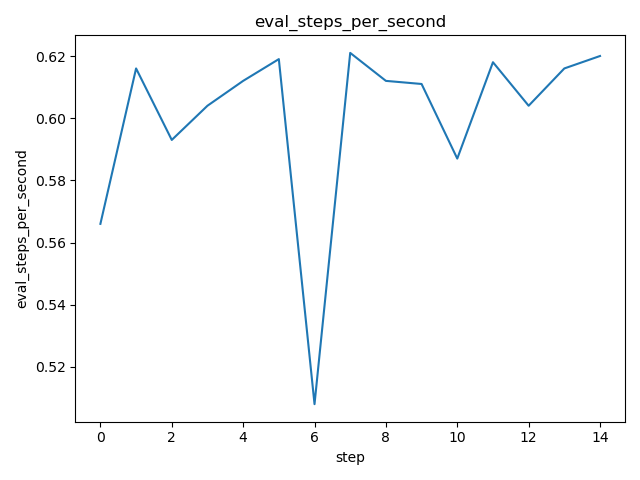
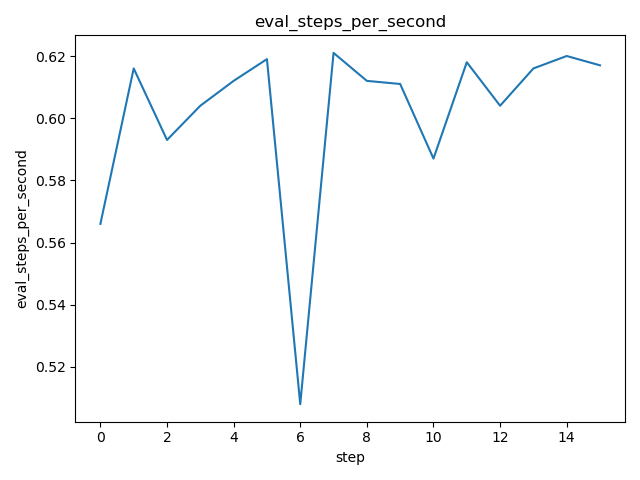
dvc: commit experiment fa0dcf23c412abcd13b3785cbe5fd228afa6c42c0286b656e30b4f0c29c3e4d6

diff --git a/data/ogt_protein_classifier/dvclive/report.md b/data/ogt_protein_classifier/dvclive/report.md
@@ -4,7 +4,7 @@ metrics.json
 
 |   loss |   learning_rate |   epoch |   eval_loss |   eval_f1 |   eval_accuracy |   eval_matthew |   eval_runtime |   eval_samples_per_second |   eval_steps_per_second |   step |
 |--------|-----------------|---------|-------------|-----------|-----------------|----------------|----------------|---------------------------|-------------------------|--------|
-| 0.0056 |           2e-05 |      30 |    0.808794 |  0.821053 |          0.7875 |       0.620264 |         3.2232 |                     24.82 |                    0.62 |     14 |
+|  0.005 |         1.8e-05 |      32 |    0.819957 |  0.821053 |          0.7875 |       0.620264 |         3.2403 |                    24.689 |                   0.617 |     15 |
 
 ![static/eval_steps_per_second](static/eval_steps_per_second.png)
 
